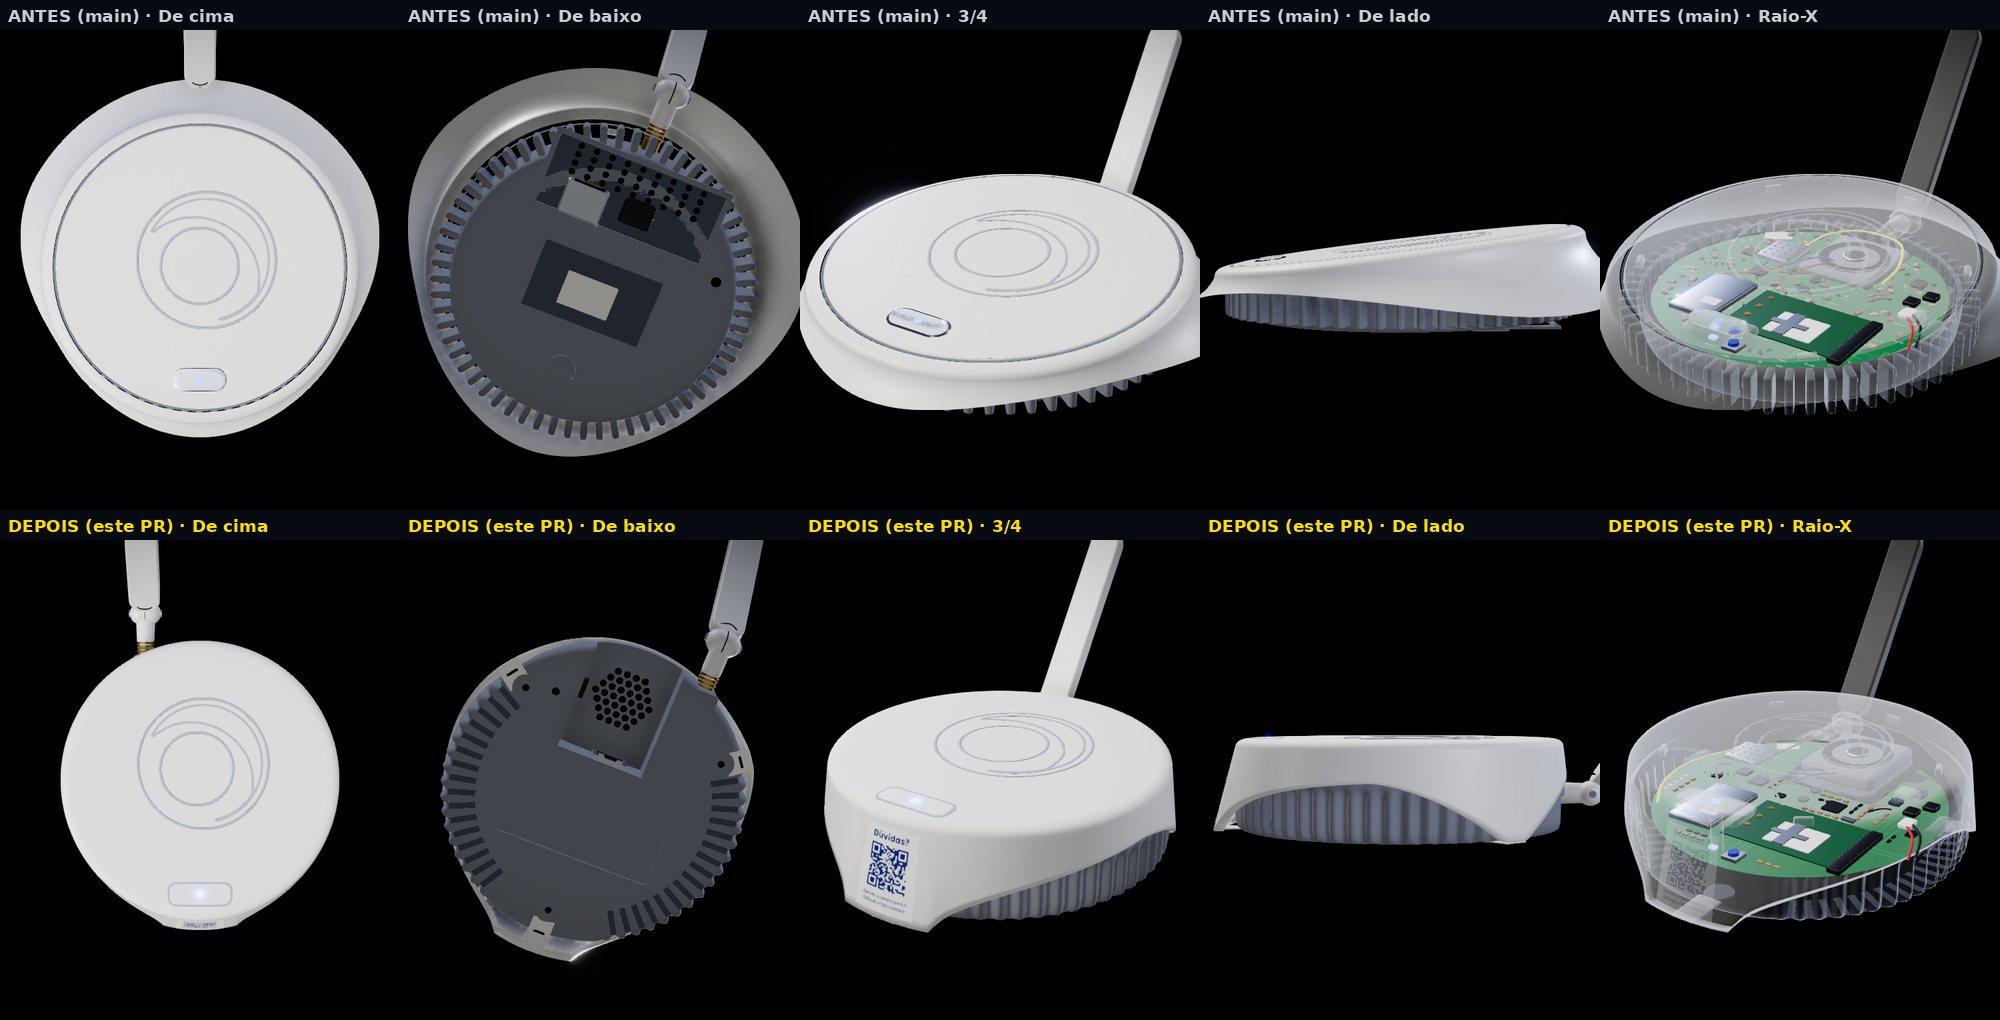
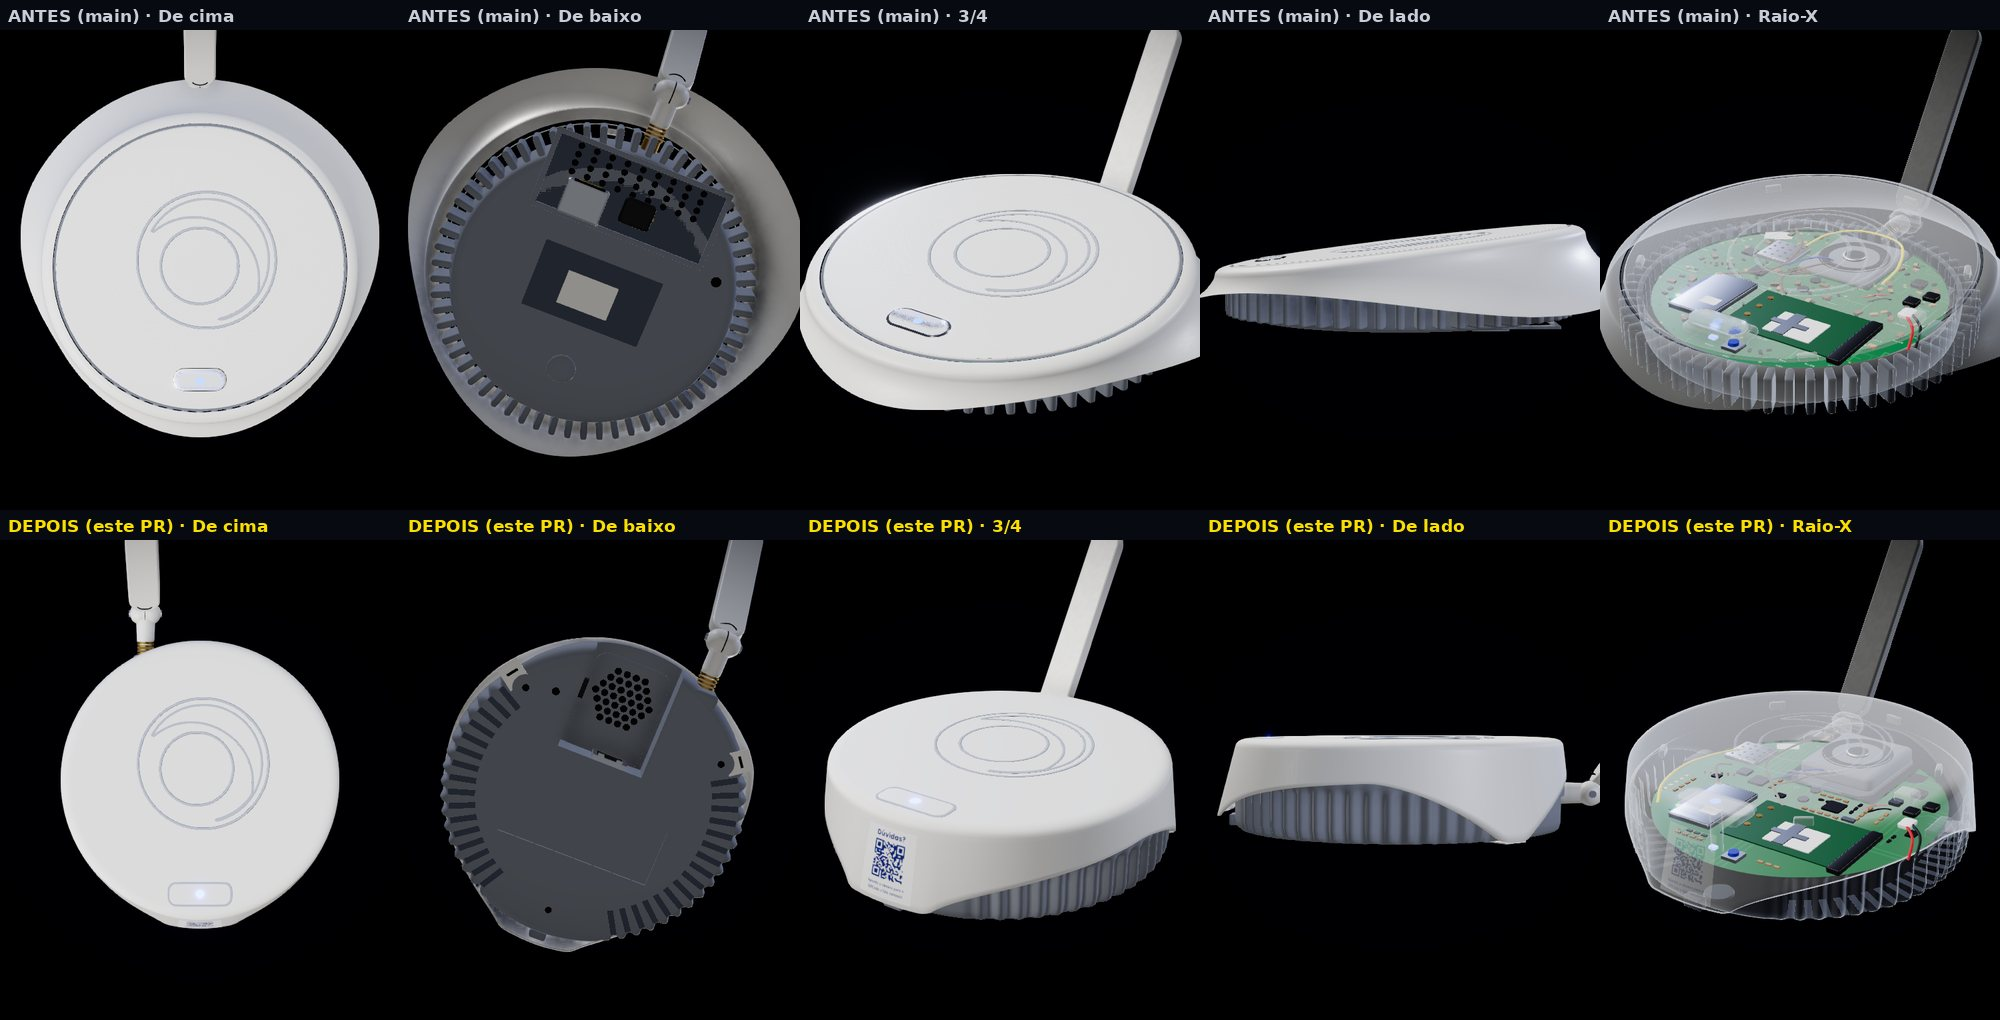
Docs, prints e imagem da abertura: ponta do módulo e sensor magnético
MODELAGEM.md e README descrevem a ponta curta do módulo e o sensor
magnético pelas fotos novas (que mostram só duas peças: corpo e ímã).
Refeitos as pranchas do módulo e do sensor magnético, o print da cena
"Em ação" e a imagem da abertura.

Claude-Session: https://claude.ai/code/session_01JGedzfrxJd5vL5mskTPSnU

diff --git a/docs/MODELAGEM.md b/docs/MODELAGEM.md
@@ -7,7 +7,7 @@ Materiais: plástico branco acetinado #F1F2F4 com verniz leve e micro-textura (`
 ## Módulo de Comando (planta de 144 × 145 mm, 38 mm de altura; 1 un = 80 mm; frente em +Z)
 
 
-A tampa é uma superfície só: topo plano, nivelado e largo (quase do tamanho do corpo), ombro arredondado e lateral que desce quase reta. Ela não sobra para fora: encaixa rente na carcaça cinza, presa por três presilhas (na frente, atrás à esquerda e atrás à direita), que é onde a tampa desce até o fundo. Entre as presilhas a borda sobe em arco longo: nos dois lados, onde aparece a base cinza, e atrás, por onde saem a antena e os cabos. Nos arcos a faixa branca tem ~15 mm. Na frente a tampa termina numa ponta de base reta, que avança um pouco num bico; a borda sobe dos dois lados dela em curva côncava. Na frente da tampa, sob o botão, vai o adesivo "Dúvidas?" com um QR ilustrativo (um desenho que não codifica nada). A base cinza é um tambor redondo logo por dentro da tampa (1 mm de degrau). Tem nervuras fundas só nos dois lados (de ~25° a ~125° da frente), com uma faixa lisa logo abaixo da tampa; cada nervura dobra para baixo e continua como um rasgo no fundo. Na frente e atrás a base é lisa. No fundo: três pés baixos com o furo do parafuso no centro (um atrás da ponta da frente, dois perto dos cantos de trás), o rebaixo largo da etiqueta (vazio), logo à frente do bolsão, e o bolsão fundo no meio da borda de trás. O bolsão é um rasgo aberto: atravessa a parede de trás até a borda, e é por ali que os cabos saem. Dentro dele: grade de som em hexágono (37 furos) numa moldura de cantos redondos na face funda, RJ45 deitado, na parede da frente do bolsão, com a boca virada para dentro dele (o cabo entra deitado), e o jack da fonte na parede esquerda, a meia altura. A antena não sai do centro: fica num ressalto ao lado do bolsão (à direita de quem olha o fundo); o furo pequeno fica do outro lado.
+A tampa é uma superfície só: topo plano, nivelado e largo (quase do tamanho do corpo), ombro arredondado e lateral que desce quase reta. Ela não sobra para fora: encaixa rente na carcaça cinza, presa por três presilhas (na frente, atrás à esquerda e atrás à direita), que é onde a tampa desce até o fundo. Entre as presilhas a borda sobe em arco longo: nos dois lados, onde aparece a base cinza, e atrás, por onde saem a antena e os cabos. Nos arcos a faixa branca tem ~15 mm. Na frente a tampa desce numa ponta curta, de base reta e cantos arredondados, que termina ~6 mm acima do fundo e avança um pouco num bico; a borda sobe dos dois lados dela em curva côncava. Logo abaixo da ponta fica a lingueta cinza da presilha da frente. Na frente da tampa, sob o botão, vai o adesivo "Dúvidas?" com um QR ilustrativo (um desenho que não codifica nada). A base cinza é um tambor redondo logo por dentro da tampa (1 mm de degrau). Tem nervuras fundas só nos dois lados (de ~25° a ~125° da frente), com uma faixa lisa logo abaixo da tampa; cada nervura dobra para baixo e continua como um rasgo no fundo. Na frente e atrás a base é lisa. No fundo: três pés baixos com o furo do parafuso no centro (um atrás da ponta da frente, dois perto dos cantos de trás), o rebaixo largo da etiqueta (vazio), logo à frente do bolsão, e o bolsão fundo no meio da borda de trás. O bolsão é um rasgo aberto: atravessa a parede de trás até a borda, e é por ali que os cabos saem. Dentro dele: grade de som em hexágono (37 furos) numa moldura de cantos redondos na face funda, RJ45 deitado, na parede da frente do bolsão, com a boca virada para dentro dele (o cabo entra deitado), e o jack da fonte na parede esquerda, a meia altura. A antena não sai do centro: fica num ressalto ao lado do bolsão (à direita de quem olha o fundo); o furo pequeno fica do outro lado.
 | part.id | Como é modelada |
 |---|---|
 | `tampa` | Uma malha paramétrica só (`lidGeometry`), desenhada em dois trechos que dividem os vértices: o disco do topo, fosco, e a lateral, com brilho. O raio e a altura da borda de baixo em volta do contorno vêm de `lidRim` (os três apoios e os arcos entre eles). Sob cada apoio, uma aba branca com fenda marca o fecho (aparece por baixo). Logo em sulcos finos. Por dentro: bloco do guia de luz com furo de parafuso, ganchos e ressalto. |
@@ -49,11 +49,11 @@ O corpo tem 68 mm de largura, 137 de altura e a planta fecha um círculo: é tã
 
 | part.id | Como é modelada |
 |---|---|
-| `corpo` | Barra alta em `RoundedBox` de chanfro macio, na proporção ~94 × 31 × 23, com linha de partição da tampa, marca de alinhamento e logo em sulco fino. |
+| `corpo` | Barra de cantos pouco arredondados (quase uma caixa), em duas peças: a base atrás e a tampa na frente, com a emenda entre elas. Na face: o logo em relevo, pequeno, um pouco antes do meio; a janela do LED; e, perto de uma ponta, a emenda da tampinha, que dá a volta na frente e nos lados. |
 | `ima` | Barra fina e longa (quase o comprimento do corpo, metade da altura e da profundidade), paralela e alinhada, com vão de poucos milímetros. Na cena da porta fica no batente; o corpo vai na folha. |
-| `led` | Fenda escura com LED emissivo. |
-| `choque` (i) | Placa verde comprida e estreita: chip do sensor, chave de anti-sabotagem, borne de 2 parafusos, etiqueta lisa e antena em mola de cobre na ponta. |
-| `bateria` (i) | Bateria cilíndrica presa por duas presilhas metálicas. |
+| `led` | Janela escura pequena (~6 × 3 mm), atravessada na face, entre o logo e a tampinha da ponta, com LED emissivo. |
+| `placa`, `choque` (i) | Placa verde comprida e estreita (~74 × 19 mm, pela foto da placa): borne preto de 2 parafusos num canto, do lado da tampinha; na outra ponta, a antena em mola de cobre, que sai para fora da placa e ocupa o resto do corpo; fila de cinco pontos de teste numa borda; sensor do ímã no canto da antena; chip do sensor de choque. Sem etiqueta. |
+| `bateria` (i) | Pilha cilíndrica deitada sobre a placa, presa por duas presilhas metálicas; corpo preto e faixa dourada no +, sem marca. |
 
 ## Sirene (128 mm de diâmetro, 60 mm de projeção; 1 un = 64 mm; face em +Z)
 

diff --git a/README.md b/README.md
@@ -110,6 +110,6 @@ A lista de partes de cada aparelho, com primitivas, proporções e materiais, es
 - Destino do QR Code do verso da placa. O que aparece no demo é ilustrativo e não codifica nada.
 - Cor do filete lateral do controle: azul na arte oficial, amarelo na foto real. O demo usa o azul.
 - Disco central do controle: não é botão. A arte de marketing mostra o logo nele e o ícone do sistema mostra liso; o demo usa o logo em baixo-relevo discreto.
-- Sensor magnético: a foto de instalação mostra o corpo na folha da porta e o ímã no batente (o texto antigo dizia o contrário); confirmar no manual. A mesma foto tem um terceiro bloco branco, abaixo do corpo, que não foi modelado.
+- Sensor magnético: a foto de instalação mostra o corpo na folha da porta e o ímã no batente (o texto antigo dizia o contrário); confirmar no manual. As fotos novas do sensor instalado mostram só as duas peças (corpo e ímã); o terceiro bloco branco da foto antiga não faz parte dele. Qual ponta fica com o borne e qual com a antena é suposição: a foto da placa não mostra o lado da tampinha.
 - Módulo: a antena sai atrás, fora do centro, ao lado do bolsão dos cabos (pelo vídeo do fundo e pela foto de estúdio); a distância até o centro é estimada. A altura total segue a ficha (38 mm), mas a divisão entre base cinza (27 mm) e tampa é aproximada. A forma da tampa (topo largo, lateral rente à carcaça, ponta da frente em bico) e as nervuras, os pés e o rebaixo do fundo saem das fotos do aparelho; os raios são estimados. A traseira real é reta, com os pés nos cantos; no modelo ela ainda é redonda. O QR do adesivo "Dúvidas?" é ilustrativo (não codifica nada).
 - Sirene: o suporte de parede não tem medida na ficha; foi mantido o da rodada anterior.
